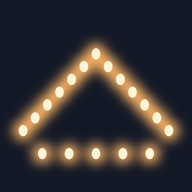
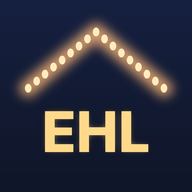
Rebrand as EHL Quotes with a deeper dark look
New EHL roofline icon, branded header with a glowing light strand,
numbered steps, near-black glassy panels and warm glowing buttons,
company footer. App name on the home screen is now EHL Quotes.

Claude-Session: https://claude.ai/code/session_01C3uhdTjHiHYW9RUWDSgzmb

diff --git a/index.html b/index.html
@@ -3,20 +3,20 @@
 <head>
 <meta charset="utf-8">
 <meta name="viewport" content="width=device-width,initial-scale=1,viewport-fit=cover">
-<meta name="theme-color" content="#121826">
+<meta name="theme-color" content="#07090f">
 <meta name="apple-mobile-web-app-capable" content="yes">
-<meta name="apple-mobile-web-app-title" content="EHL Quote">
+<meta name="apple-mobile-web-app-title" content="EHL Quotes">
 <meta name="apple-mobile-web-app-status-bar-style" content="black-translucent">
 <link rel="manifest" href="manifest.webmanifest">
 <link rel="apple-touch-icon" href="icon-180.png">
 <link rel="icon" href="icon-192.png">
-<title>EHL Quote Builder</title>
+<title>EHL Quotes</title>
 <link rel="preconnect" href="https://fonts.googleapis.com">
 <link rel="stylesheet" href="https://fonts.googleapis.com/css2?family=Barlow+Semi+Condensed:wght@600;700&family=Atkinson+Hyperlegible:wght@400;700&display=swap">
 <style>
 /* Layout: one phone column, three steps (customer, house, send). Dusk-sky palette, bulb glow as the accent. Deliberately dark only. */
 :root{
-  --bg:#121826; --panel:#1b2335; --line:#2c3850; --fg:#eef1f7; --muted:#9aa6bd;
+  --bg:#07090f; --panel:#10141f; --panel-hi:#151b2a; --line:#222b3f; --fg:#f1f3f8; --muted:#8e9ab2; --field:#0a0d15; --btn:#1a2133;
   --bulb:#ffd98a; --bulb-ink:#2a1f05; --o1:#ffcc66; --o2:#7fd3ff; --o3:#8be39b; --warn:#ff9b7a;
   --display:"Barlow Semi Condensed","Arial Narrow",system-ui,sans-serif;
   --body:"Atkinson Hyperlegible",system-ui,-apple-system,"Segoe UI",sans-serif;
@@ -103,17 +103,38 @@ details summary{cursor:pointer;color:var(--muted);font-size:14px;padding:4px 0}
 .shots img{border-radius:8px;width:100%}
 .shots figcaption{font-size:12px;color:var(--muted)}
 a{color:var(--bulb)}
+/* EHL brand layer: near-black, glassy panels, warm bulb glow */
+html,body{background:radial-gradient(120% 60% at 50% -10%,#16203a 0%,var(--bg) 60%) fixed,var(--bg)}
+section{background:linear-gradient(180deg,var(--panel-hi),var(--panel));border-color:var(--line);border-radius:18px;padding:16px;box-shadow:0 1px 0 rgba(255,255,255,.04) inset,0 10px 30px rgba(0,0,0,.35)}
+input[type=text],input[type=tel],input[type=number],textarea{background:var(--field);border-radius:12px}
+input:focus,textarea:focus{border-color:#5a4a26;box-shadow:0 0 0 3px rgba(255,217,138,.12);outline:none}
+button,.btn{background:var(--btn);border-radius:12px}
+.big{background:linear-gradient(180deg,#ffe3a3,#f6c768);border-color:#f6c768;box-shadow:0 0 0 1px rgba(255,217,138,.25),0 6px 22px rgba(255,190,90,.22)}
+.big:active{transform:translateY(1px);box-shadow:0 0 0 1px rgba(255,217,138,.25),0 2px 10px rgba(255,190,90,.2)}
+.stage{background:#04060b;border-radius:14px;border:1px solid var(--line)}
+.brand{display:flex;align-items:center;gap:12px;min-width:0}
+.brand img{width:46px;height:46px;border-radius:12px;box-shadow:0 0 0 1px rgba(255,217,138,.25),0 0 22px rgba(255,190,90,.25)}
+.brand .nm{font-family:var(--display);font-size:28px;line-height:1;letter-spacing:.01em}
+.brand .nm b{color:var(--bulb);text-shadow:0 0 14px rgba(255,200,110,.45)}
+.brand .co{font-size:10.5px;letter-spacing:.1em;margin-top:3px;white-space:nowrap}
+.strand{height:14px;margin:2px 0 -4px;background:radial-gradient(circle,#fff3cf 0 2.2px,rgba(255,196,107,.55) 3px,transparent 7px) 0 50%/22px 14px repeat-x;filter:drop-shadow(0 0 4px rgba(255,190,90,.55));opacity:.9;
+  -webkit-mask:linear-gradient(90deg,transparent,#000 12%,#000 88%,transparent);mask:linear-gradient(90deg,transparent,#000 12%,#000 88%,transparent)}
+h2{display:flex;align-items:center;gap:10px;font-size:21px;letter-spacing:.01em}
+h2 .n{display:inline-grid;place-items:center;width:26px;height:26px;border-radius:50%;font-size:15px;background:rgba(255,217,138,.12);color:var(--bulb);box-shadow:inset 0 0 0 1px rgba(255,217,138,.35)}
+.gear{white-space:nowrap;flex:none;font-size:14px;text-decoration:none;border:1px solid var(--line);border-radius:999px;padding:6px 12px;min-height:34px;color:var(--muted)}
+footer{text-align:center;font-size:12px;color:var(--muted);padding-top:4px;letter-spacing:.04em}
 @media (prefers-reduced-motion:reduce){*{transition:none!important;animation:none!important}}
 </style>
 
 </head>
 <body>
 <div class="wrap">
-  <header style="flex-direction:row;justify-content:space-between;align-items:flex-end">
-    <div><div class="co">Extreme Home Lighting LLC</div>
-    <h1>Christmas Light <span>Quote</span></h1></div>
-    <button type="button" class="quiet" id="btnSettings">Settings</button>
+  <header style="flex-direction:row;justify-content:space-between;align-items:center;gap:10px">
+    <div class="brand"><img src="icon-192.png" alt="">
+      <div><h1 class="nm">EHL <b>Quotes</b></h1><div class="co">Extreme Home Lighting LLC</div></div></div>
+    <button type="button" class="quiet gear" id="btnSettings">⚙ Settings</button>
   </header>
+  <div class="strand" aria-hidden="true"></div>
 
   <section id="settings" hidden>
     <h2>Settings</h2>
@@ -124,7 +145,7 @@ a{color:var(--bulb)}
   </section>
 
   <section>
-    <h2>Customer</h2>
+    <h2><span class="n">1</span>Customer</h2>
     <label>Address<input id="cAddr" type="text" autocomplete="off" placeholder="Paste the address here"></label>
     <div class="grid2">
       <label>Name<input id="cName" type="text" autocomplete="off" placeholder="Jane Smith"></label>
@@ -136,7 +157,7 @@ a{color:var(--bulb)}
   </section>
 
   <section>
-    <h2>House &amp; lights</h2>
+    <h2><span class="n">2</span>House &amp; lights</h2>
     <input id="fileIn" type="file" accept="image/*" multiple hidden>
     <div class="photos" id="photoTabs" hidden></div>
     <div class="stage">
@@ -204,7 +225,7 @@ a{color:var(--bulb)}
           <button type="button" id="btnNew">+ New line</button>
           <button type="button" id="btnDel">Delete</button>
         </div>
-        <button type="button" class="big" id="btnConfirm" style="background:#2f7a45;border-color:#2f7a45;color:#fff">✓ Confirm Option 1</button>
+        <button type="button" class="big" id="btnConfirm" style="background:linear-gradient(180deg,#3a9157,#2a6f40);border-color:#3a9157;color:#fff;box-shadow:0 6px 22px rgba(60,170,100,.2)">✓ Confirm Option 1</button>
         <button type="button" id="btnEdit" hidden>Edit Option 1</button>
         <p class="status" id="status" role="status">Tap the photo to add lights. Drag a dot to move it. Pinch or use + to zoom in.</p>
 
@@ -224,12 +245,12 @@ a{color:var(--bulb)}
   </section>
 
   <section>
-    <h2>Price</h2>
+    <h2><span class="n">3</span>Price</h2>
     <div class="prices" id="prices"></div>
   </section>
 
   <section>
-    <h2>Send</h2>
+    <h2><span class="n">4</span>Send</h2>
     <button type="button" class="big" id="btnCopy">Copy quote text</button>
     <button type="button" id="btnShots">Make the 3 mock-up pictures</button>
     <button type="button" class="big" id="btnShare" hidden>Text pictures + quote to customer</button>
@@ -243,6 +264,7 @@ a{color:var(--bulb)}
     </details>
     <button type="button" class="quiet" id="btnReset" style="align-self:flex-start">Start a new quote</button>
   </section>
+  <footer>Extreme Home Lighting LLC · Memphis, TN · 901-694-9113</footer>
 </div>
 
 <script type="module">
